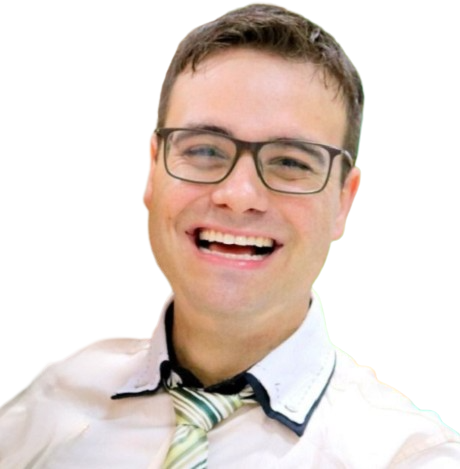
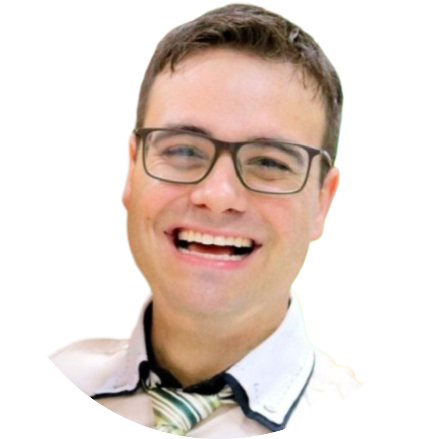
About Component JSX

diff --git a/src/components/about/About.jsx b/src/components/about/About.jsx
@@ -1,8 +1,53 @@
 import React from 'react'
 import './about.css';
+import ME from '../../assets/me.png'
+import {FaAward} from 'react-icons/fa'
+import {FiUsers} from 'react-icons/fi'
+import {VscFolderLibrary} from 'react-icons/vsc'
+
 const About = () => {
   return (
-    <section id='about'>Sobre</section>
+    <section id='about'>
+      <h5>Conhecer mais</h5>
+      <h2>Sobre mim</h2>
+
+
+      <div className='container about__container'>    
+        <div className='about__me'>
+              <div className='about__me-image'>
+                <img src={ME} alt="About"></img>
+              </div>
+          </div>
+
+          <div className='about__content'>
+              <div className='about_cards'>
+                <article className='about__card'>
+                  <FaAward className='about_icon'/>
+                  <h5>Experiência</h5>
+                  <small>9+ Anos de atuação</small>
+                </article>
+
+                <article className='about__card'>
+                  <FiUsers className='about_icon'/>
+                  <h5>Clientes</h5>
+                  <small>Diversos Clientes</small>
+                </article>
+
+                <article className='about__card'>
+                  <VscFolderLibrary className='about_icon'/>
+                  <h5>Projetos</h5>
+                  <small>Diversos projetos completos</small>
+                </article>
+              </div>
+
+              <p>
+              Lorem ipsum dolor sit amet, consectetur adipiscing elit, sed do eiusmod tempor incididunt ut labore et dolore magna aliqua. Ut enim ad minim veniam, quis nostrud exercitation ullamco laboris nisi ut aliquip ex ea commodo consequat. Duis aute irure dolor in reprehenderit in voluptate velit esse cillum dolore eu fugiat nulla pariatur. 
+              </p>
+
+              <a href='#contact' className='btn btn-primary'>Entrar em contato</a>
+          </div>
+      </div>
+    </section>
   )
 }
 
